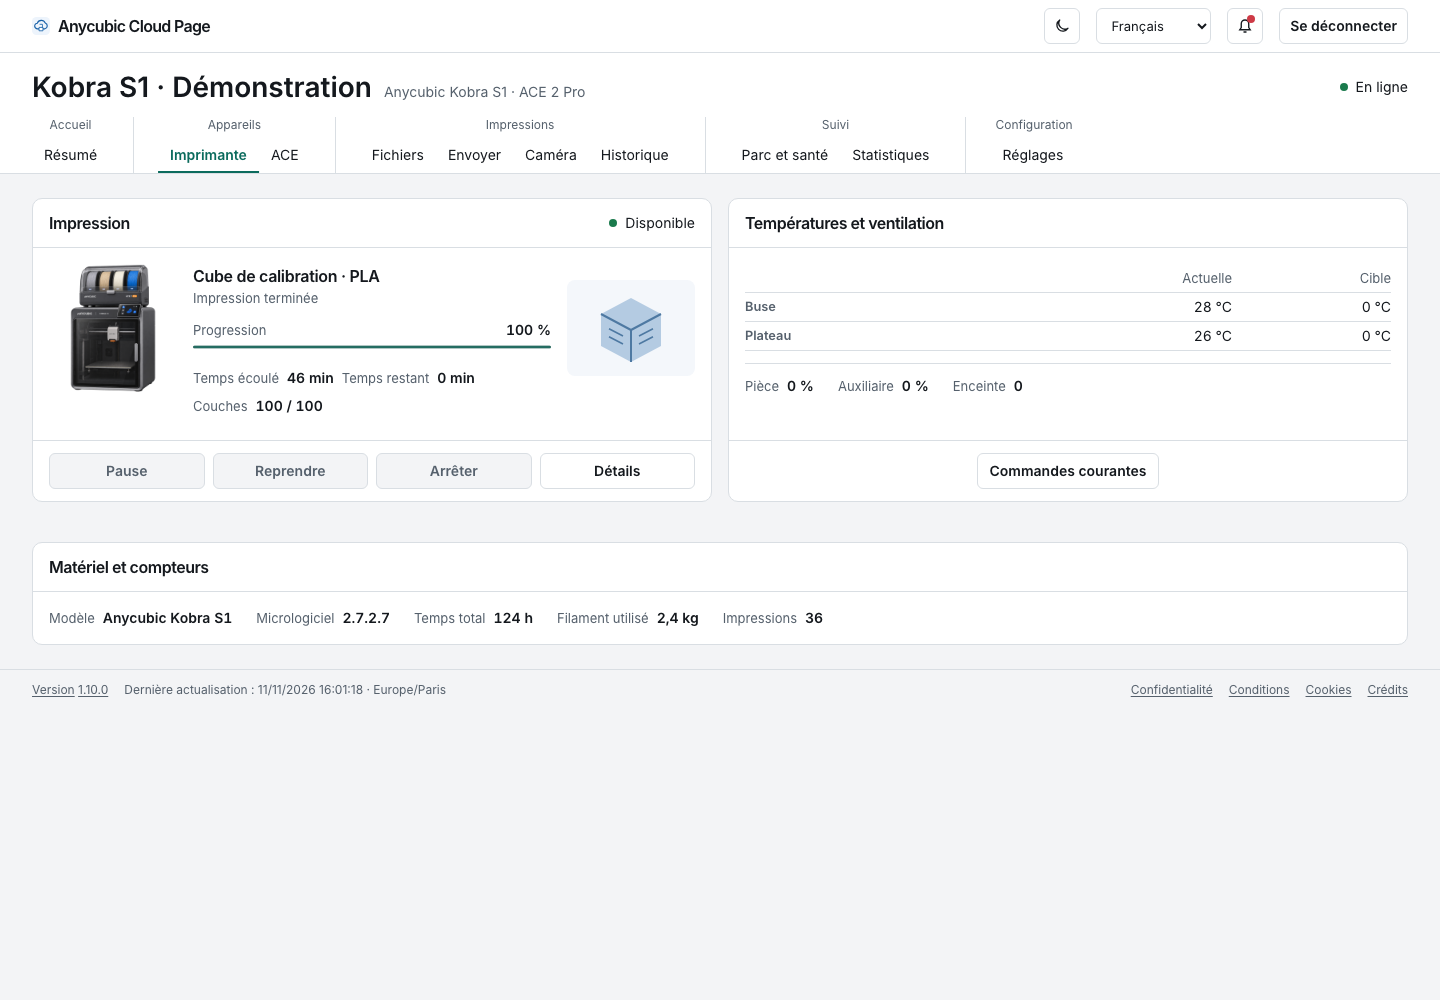
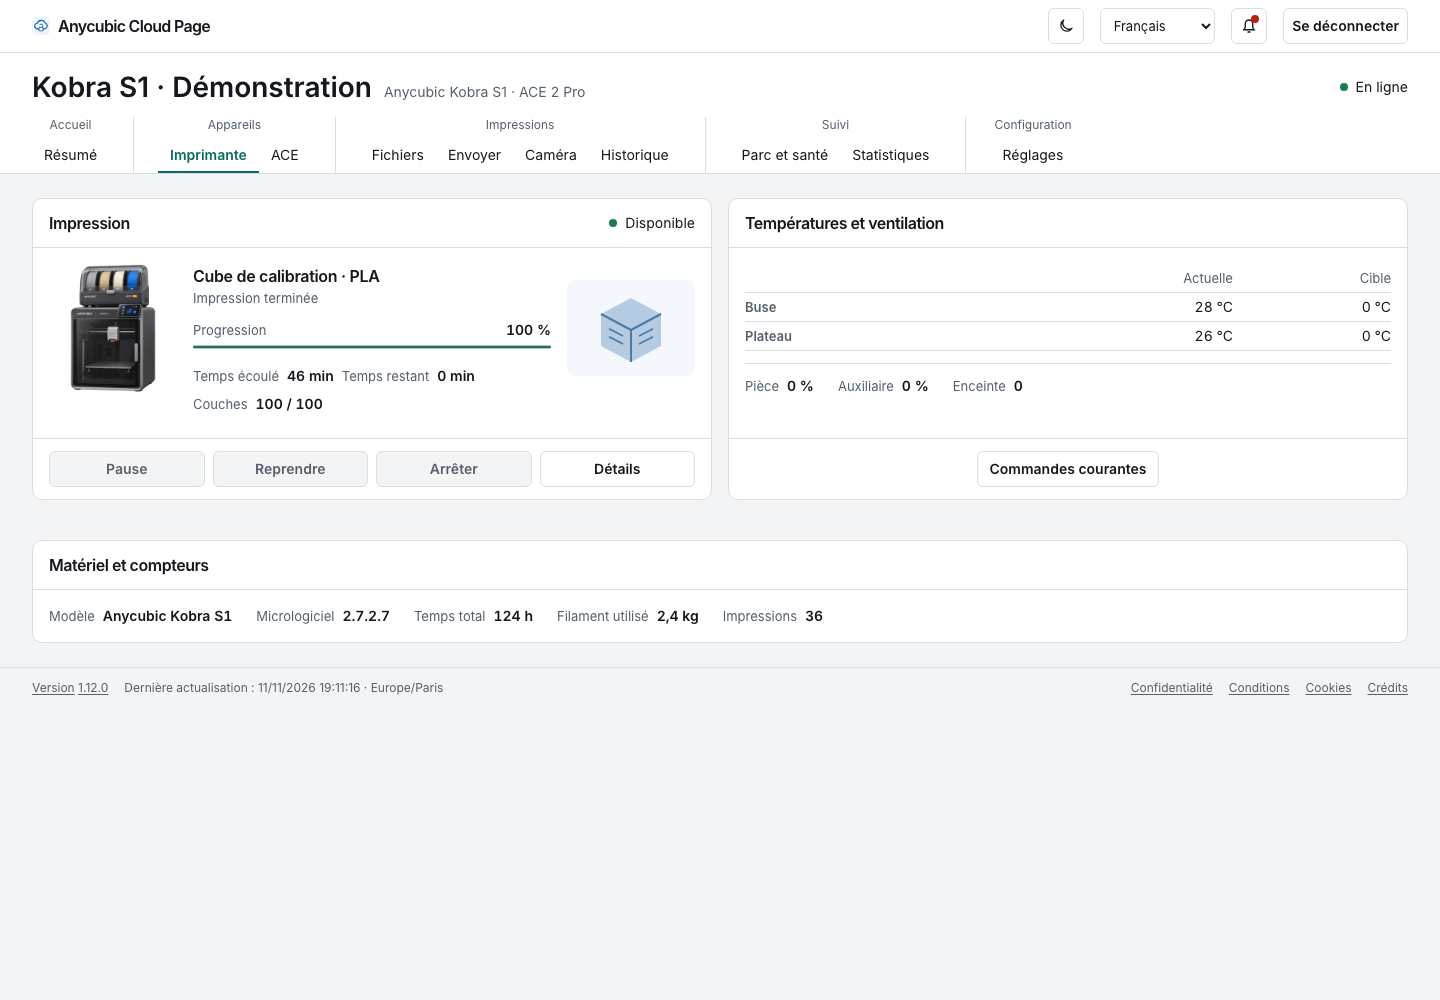
Version 1.12.0 : clôture et maintenance de l’atelier (#317)

diff --git a/app/printer_engine.py b/app/printer_engine.py
@@ -323,6 +323,7 @@ class Engine:
 
     @api.setter
     def api(self, value):
+        """Partage le client remplacé avec les cibles du compte."""
         self.transport.api = value
 
     @property
@@ -332,6 +333,7 @@ class Engine:
 
     @session.setter
     def session(self, value):
+        """Rattache la session HTTP au transport commun."""
         self.transport.session = value
 
     @property
@@ -341,6 +343,7 @@ class Engine:
 
     @account_token.setter
     def account_token(self, value):
+        """Associe le jeton au client qui l’a établi."""
         self.transport.token = value
 
     @property
@@ -350,6 +353,7 @@ class Engine:
 
     @reconnect_required.setter
     def reconnect_required(self, value):
+        """Transmet la demande de reconnexion aux cibles."""
         self.transport.reconnect_required = value
 
     def event(self, action, state):

diff --git a/app/notification_settings.py b/app/notification_settings.py
@@ -60,6 +60,7 @@ def install_discord(app, state_dir, *, fake_sender=None, history_reader=None):
     app[SETTINGS_LOCK] = asyncio.Lock()
 
     async def lifecycle(app):
+        """Arrête la collecte et les livraisons avant de fermer leur session HTTP."""
         async with aiohttp.ClientSession(trust_env=False) as session:
             sender = fake_sender if fake_sender is not None else partial(send_discord, session)
             report_sender = (
@@ -203,6 +204,7 @@ async def discord_settings(request):
     config_path = request.app[REPORT_CONFIG_KEY if report else CONFIG_KEY]
 
     def render(message="", status=200):
+        """Conserve la destination courante dans les réponses et les refus."""
         return discord_page(delivery, message, status, report=report)
 
     if request.method in {"GET", "HEAD"}:

diff --git a/app/notification_delivery.py b/app/notification_delivery.py
@@ -321,7 +321,10 @@ class Delivery:
         return await finish_transaction(commit())
 
     async def observe_cloud(self, scope, page, rows, read_legacy):
-        """Réutilise le journal de compte et borne les compléments destinés aux alarmes ambiguës."""
+        """Établit une référence par compte avant d’admettre les résultats nouveaux.
+
+        Une alarme ambiguë nécessite une preuve terminale issue du journal historique.
+        """
         if not self.config.enabled or not scope or self.last_outcome == "unavailable":
             return
         if self.scope != scope:

diff --git a/app/web_host.py b/app/web_host.py
@@ -699,6 +699,7 @@ async def totp_settings(request):
         config = current_totp(request)
 
         def render_refusal(message, status):
+            """Garde l’écran de sécurité ouvert avec un message expurgé."""
             return totp_settings_page(store, config, message, status)
 
         session, refusal = confirm_web_password(

diff --git a/app/server.py b/app/server.py
@@ -513,6 +513,7 @@ async def command(req):
             sent = False
 
             async def before_send():
+                """Fige la preuve avant l’envoi, car le résultat peut rester incertain."""
                 nonlocal sent
                 if sent:
                     return

diff --git a/docs/UPSTREAM-COMPARISON.md b/docs/UPSTREAM-COMPARISON.md
@@ -86,3 +86,62 @@ Les autres branches non par défaut observées dans le réseau public comprennen
 ## Bilan
 
 La découverte nouvelle la plus utile est le modèle ioBroker pour distinguer mises à jour MQTT et resynchronisation REST configurable. Elle sert de piste de réduction des appels, pas de code à importer. Le réseau de forks Wares contient beaucoup de miroirs de même SHA, un fork d’évolution conséquent (Baeka89) et plusieurs copies contenant caméra Home Assistant; aucun ne prouve un nouvel ordre de coordonnées S1. Aucun patch, source tiers, secret, requête Cloud ni commande machine n’a été utilisé ou ajouté.
+
+## Lectures retenues pour la clôture (#260)
+
+Les révisions sont figées. Les essais matériels cités proviennent des auteurs.
+
+### xNoVoSx/kobra-spoolman
+
+Licence relevée **MIT**. [Révision `671064962a34`](https://github.com/xNoVoSx/kobra-spoolman/tree/671064962a34019d9f2a205996629a90b2b14b39)
+
+Sépare la bobine affectée dans Spoolman, l’état ACE en direct et la dernière affectation connue. Enregistre l’usage par emplacement, puis garde les consommations sans bobine identifiée à part pour correction. La masse est une mesure ou une estimation du pont selon le mode, distincte du pourcentage ACE. Les essais S1 de l’auteur passent par un pont local, dont Rinkhals pour sa configuration. Ils ne valident pas ces champs dans le Cloud.
+
+Retenir les indicateurs de provenance et la correction des affectations pour #93. Garder Spoolman comme intégration facultative à l’étude. Aucune dépendance Moonraker ni reprise de code.
+
+Sources consultées. [`docs/findings.md`](https://github.com/xNoVoSx/kobra-spoolman/blob/671064962a34019d9f2a205996629a90b2b14b39/docs/findings.md), [`docs/api.md`](https://github.com/xNoVoSx/kobra-spoolman/blob/671064962a34019d9f2a205996629a90b2b14b39/docs/api.md), [`docs/spoolman-fields.md`](https://github.com/xNoVoSx/kobra-spoolman/blob/671064962a34019d9f2a205996629a90b2b14b39/docs/spoolman-fields.md), [`bridge/app/acebridge/acemodel.py`](https://github.com/xNoVoSx/kobra-spoolman/blob/671064962a34019d9f2a205996629a90b2b14b39/bridge/app/acebridge/acemodel.py)
+
+### Shawman511/printer-hub
+
+Licence relevée **MIT**. [Révision `9c15ea23a5d7`](https://github.com/Shawman511/printer-hub/tree/9c15ea23a5d7e9c12743e3e4e71961ecd37fce90)
+
+Sépare consultation, exploitation et administration. Le journal conserve les résultats terminé, annulé ou échoué. L’usage du filament peut être corrigé via le journal. Les timelapses de l’application sont des enregistrements de son propre flux et ne prouvent pas l’accès aux vidéos existantes de la S1. Une configuration caméra absente est traitée séparément d’une caméra non disponible.
+
+Retenir la distinction d’état pour #254 et #30. Conserver les confirmations de l’atelier et évaluer l’idée d’un accès de consultation si le besoin se confirme.
+
+Sources consultées. [`docs/users-and-security.md`](https://github.com/Shawman511/printer-hub/blob/9c15ea23a5d7e9c12743e3e4e71961ecd37fce90/docs/users-and-security.md), [`docs/troubleshooting.md`](https://github.com/Shawman511/printer-hub/blob/9c15ea23a5d7e9c12743e3e4e71961ecd37fce90/docs/troubleshooting.md), [`docs/using.md`](https://github.com/Shawman511/printer-hub/blob/9c15ea23a5d7e9c12743e3e4e71961ecd37fce90/docs/using.md), [`drivers/anycubic.js`](https://github.com/Shawman511/printer-hub/blob/9c15ea23a5d7e9c12743e3e4e71961ecd37fce90/drivers/anycubic.js)
+
+### tobecwb/ace2k
+
+Licence relevée **GPL-3.0 (fichier LICENSE)**. [Révision `a0a8398ccd27`](https://github.com/tobecwb/ace2k/tree/a0a8398ccd27d84ef7862d53df6da1cadc436a49)
+
+Firmware alternatif pour ACE 2 Pro. Distingue lecture RFID brute, décodage par l’hôte, position du filament et fin réelle d’un déplacement. L’auteur documente les écarts avec le firmware d’origine et des événements de séchage répétés ou perdus après redémarrage. Ces événements ne sont pas des codes Cloud.
+
+Retenir cette séparation d’états pour #93 et #136. Les mesures et limites du firmware alternatif ne sont pas transposées à la S1 Cloud.
+
+Sources consultées. [`docs/protocol.md`](https://github.com/tobecwb/ace2k/blob/a0a8398ccd27d84ef7862d53df6da1cadc436a49/docs/protocol.md), [`docs/commands.md`](https://github.com/tobecwb/ace2k/blob/a0a8398ccd27d84ef7862d53df6da1cadc436a49/docs/commands.md), [`docs/features.md`](https://github.com/tobecwb/ace2k/blob/a0a8398ccd27d84ef7862d53df6da1cadc436a49/docs/features.md), [`docs/limitations.md`](https://github.com/tobecwb/ace2k/blob/a0a8398ccd27d84ef7862d53df6da1cadc436a49/docs/limitations.md), [`docs/differences-from-stock.md`](https://github.com/tobecwb/ace2k/blob/a0a8398ccd27d84ef7862d53df6da1cadc436a49/docs/differences-from-stock.md)
+
+### Rec0iL/AnycubicGcodeFix
+
+Licence relevée **MIT**. [Révision `d9d8d36e5408`](https://github.com/Rec0iL/AnycubicGcodeFix/tree/d9d8d36e54087c4b961caf7d9a29d24c72dddca1)
+
+L’auteur isole sur sa S1 le cas de G-code brut refusé. Il compare en-tête, blocs de miniature, bloc d’impression et statistiques de fin et conserve le fichier d’origine. Son profil de réécriture embarque des séquences machine et une configuration de trancheur. Le code 10115 seul ne prouve aucun des défauts de structure particuliers.
+
+Retenir une comparaison hors ligne entre fichier connu, fichier refusé et format déclaré pour #142. Ne pas réécrire le G-code, ajouter des mouvements ou déclarer le fichier imprimable sur cette seule base.
+
+Sources consultées. [`README.md`](https://github.com/Rec0iL/AnycubicGcodeFix/blob/d9d8d36e54087c4b961caf7d9a29d24c72dddca1/README.md), [`gcodefix/fixer.py`](https://github.com/Rec0iL/AnycubicGcodeFix/blob/d9d8d36e54087c4b961caf7d9a29d24c72dddca1/gcodefix/fixer.py), [`gcodefix/profile.py`](https://github.com/Rec0iL/AnycubicGcodeFix/blob/d9d8d36e54087c4b961caf7d9a29d24c72dddca1/gcodefix/profile.py), [`gcodefix/thumbnail.py`](https://github.com/Rec0iL/AnycubicGcodeFix/blob/d9d8d36e54087c4b961caf7d9a29d24c72dddca1/gcodefix/thumbnail.py)
+
+### Références hors périmètre de clôture
+
+- `cluzl/kobra-bridge` · hors de la comparaison de clôture.
+- `drpngx/orcaslicer-webconfig` · hors de la comparaison de clôture.
+- `EmreTekir/anycubic-slicer-mcp` · hors de la comparaison de clôture.
+- `tobecwb/ace2k-u1` · hors de la comparaison de clôture.
+- `hwiedermann/ioBroker.anycubic-cloud` · hors de la comparaison de clôture.
+- `marcodiniz/OrcaCubic` · hors de la comparaison de clôture.
+- `MineTech13/anycubic-slicer-next` · hors de la comparaison de clôture.
+- `sh4un-dot-com/Anycubic-SlicerNext-CachyBox` · hors de la comparaison de clôture.
+- `nzrbits/anycubic-uploader` · hors de la comparaison de clôture.
+- `Nino6689/anycubic-cloud-frontend` · hors de la comparaison de clôture.
+- `iu2frl/3d-printer-logs-decrypter` · hors de la comparaison de clôture.
+- `balassy/MMM-Anycubic` · hors de la comparaison de clôture.

diff --git a/docs/ROADMAP.md b/docs/ROADMAP.md
@@ -9,49 +9,23 @@ Mise à jour le 11 novembre 2026. Voir les [versions publiées](https://github.c
 - Le catalogue conserve Par défaut, Aurore et Laboratoire. Voir le [guide des styles](THEMES.md).
 - Les essais sur la Kobra S1 Combo suivent le cadre [#214](https://github.com/mcflykid/anycubic-cloud-page/issues/214), avec vérification de l’état et remise en état après chaque essai. Toute impression complète, mise à jour de firmware ou réinitialisation est exclue.
 
-## Livré dans la 1.10.0
+## Version finale 1.12.0
 
-Prisme, la connexion à deux facteurs, les corrections d’affichage et le découpage du serveur sont détaillés dans le [journal des changements](../CHANGELOG.md).
+Les [changements](../CHANGELOG.md) couvrent les trois styles, les réglages Discord, le catalogue d’erreurs et l’aide contextuelle. Les [essais de clôture](CLOSURE.md) documentent les validations et les preuves à réunir si une investigation reprend.
 
-## En cours
-
-Les critères sont regroupés dans [Prochaine livraison](https://github.com/mcflykid/anycubic-cloud-page/milestone/9).
-
-| Sujet | Suivi |
+| Sujet | Référence |
 | --- | --- |
-| Discord | [#205 Notifications](https://github.com/mcflykid/anycubic-cloud-page/issues/205), [#312 Bilans programmés](https://github.com/mcflykid/anycubic-cloud-page/issues/312) |
-| Suite de l’interface | [#248 Animations](https://github.com/mcflykid/anycubic-cloud-page/issues/248) |
-| Annotations en français | [#223](https://github.com/mcflykid/anycubic-cloud-page/issues/223), à intégrer après les autres changements. |
-
-## Ensuite
-
-[Livraison suivante](https://github.com/mcflykid/anycubic-cloud-page/milestone/13) regroupe l’[audit des styles #257](https://github.com/mcflykid/anycubic-cloud-page/issues/257), l’[étude des seize dépôts #258](https://github.com/mcflykid/anycubic-cloud-page/issues/258), le [catalogue d’erreurs #259](https://github.com/mcflykid/anycubic-cloud-page/issues/259), le [registre des sources #260](https://github.com/mcflykid/anycubic-cloud-page/issues/260), les [README #261](https://github.com/mcflykid/anycubic-cloud-page/issues/261) et les [captures #262](https://github.com/mcflykid/anycubic-cloud-page/issues/262).
-
-## À l’étude
-
-[Milestone des investigations](https://github.com/mcflykid/anycubic-cloud-page/milestone/14).
-
-| Sujet | Prochaine preuve et responsable |
-| --- | --- |
-| [#30 Timelapses](https://github.com/mcflykid/anycubic-cloud-page/issues/30) | Codex vérifie la correspondance liste, miniature et téléchargement avec une vidéo existante. |
-| [#93 Données S1 et ACE](https://github.com/mcflykid/anycubic-cloud-page/issues/93) | Codex compare les unités et états reçus aux valeurs de l’écran, notamment l’RFID et la quantité. |
-| [#103 Lancement G-code 3MF](https://github.com/mcflykid/anycubic-cloud-page/issues/103) | Codex identifie le format et les paramètres requis pour distinguer stockage et lancement. |
-| [#136 Refus et séchage](https://github.com/mcflykid/anycubic-cloud-page/issues/136) | Codex documente les refus constructeurs et vérifie les options de séchage à partir de retours observés. |
-| [#142 Fichier mémoire](https://github.com/mcflykid/anycubic-cloud-page/issues/142) | Codex compare un refus depuis la mémoire avec la lecture du même fichier depuis l’écran de la S1. |
-| [#145 Maillage S1](https://github.com/mcflykid/anycubic-cloud-page/issues/145) | Codex cherche un export de maillage S1 effectivement récupérable et documente son format. |
-| [#181 Aide Fichiers](https://github.com/mcflykid/anycubic-cloud-page/issues/181) | Le propriétaire donne son avis sur la [maquette #203](https://github.com/mcflykid/anycubic-cloud-page/pull/203). |
-| [#194 Hôtes de stockage](https://github.com/mcflykid/anycubic-cloud-page/issues/194) | Codex établit une liste de destinations Anycubic étayée par la documentation ou des observations expurgées. |
+| Discord | [Alertes et bilans](NOTIFICATIONS.md) |
+| Aide et catalogue | [Wiki officiel Kobra S1](ANYCUBIC-WIKI-S1.md) |
+| Lectures amont et crédits | [Registre des sources](SOURCES.md) |
+| Limites et validation réelle | [Dossier de clôture](CLOSURE.md) |
 
 ## Idées non planifiées
 
-Deuxième canal de notification, événements de filament ou de séchage, notifications hors ligne, inventaire et liaison Spoolman, statistiques mensuelles, vue mur plein écran, installation sur téléphone, file d’impressions avec confirmations, export de métriques, sauvegarde et restauration d’`appdata`, page d’état et rapport de compatibilité par modèle.
+Événements de filament ou de séchage, notifications hors ligne, inventaire et liaison Spoolman, statistiques mensuelles, vue mur plein écran, installation sur téléphone, file d’impressions avec confirmations, export de métriques, sauvegarde et restauration d’`appdata`, page d’état et rapport de compatibilité par modèle.
 
 ## Écarté
 
 - Mode réseau local, conformément au choix de conserver l’intégration Cloud.
 - Modification du stockage du mot de passe web, conformément à la décision du propriétaire.
 - Lecture des coordonnées de la tête. La fonction a été retirée après des délais sans réponse exploitable. [#167](https://github.com/mcflykid/anycubic-cloud-page/issues/167)
-
-## En attente du propriétaire
-
-- Souhaites-tu conserver la maquette d’aide dans Fichiers pour la suite ? [#181](https://github.com/mcflykid/anycubic-cloud-page/issues/181) · [#203](https://github.com/mcflykid/anycubic-cloud-page/pull/203)

diff --git a/docs/CLOSURE.md b/docs/CLOSURE.md
@@ -1,0 +1,16 @@
+# Vérifications et limites de la version finale
+
+Les tests automatiques utilisent la démonstration et des comptes fictifs. La qualification sur une installation réelle reste nécessaire pour les cas ci-dessous.
+
+| Suivi | État des connaissances | Preuve à obtenir pour reprendre |
+| --- | --- | --- |
+| #30 · Timelapses | Le wiki S1 décrit l’enregistrement et l’export USB. Le parcours distant complet reste indéterminé. La galerie est désactivée. | Une vidéo existante, sa fiche Cloud et un téléchargement correspondant à la même vidéo. |
+| #93 · États S1 et ACE | Les sources amont séparent identification RFID, pourcentage fabricant et masse. Les remontées disponibles gardent leurs unités et leur provenance. | Comparer des relevés Cloud à l’écran de la même S1 et du même ACE, au même instant. |
+| #103 · G-code 3MF | Le stockage de projets 3MF et le lancement d’un G-code sont deux opérations distinctes. Le lancement de `.gcode.3mf` reste indisponible. | Un exemple confirmé sur S1 avec le type du fichier et la réponse de l’ordre. |
+| #136 · Refus et séchage | Les codes connus ont une fiche locale. Les réglages de séchage restent indépendants du lancement. | Une preuve distincte pour la préparation, le début et la fin du séchage avant un lancement. |
+| #142 · Fichier mémoire | Le code 10115 décrit un refus de lecture. Le fichier refusé signalé à l’origine n’a pas été identifié. | Le même fichier identifié dans la mémoire, son intégrité et deux résultats comparables depuis l’écran et le Cloud. |
+| #145 · Maillage | Les références étudiées documentent des formats locaux ou des mesures. L’export S1 par le Cloud reste indéterminé. | Un export S1 récupéré avec dimensions, unités et provenance documentées. |
+| #194 · Stockage | Les URL restent soumises aux garde-fous existants. Les aperçus réels consultés pour #290 n’ont pas fourni d’image exploitable pour compléter la liste d’hôtes. | Des hôtes expurgés obtenus pendant un aperçu ou un téléchargement autorisé sur chaque source. |
+| #310 · Qualification | Les aperçus existants et les journaux ont été consultés en lecture seule pour la 1.11.0. Les essais réels de caméra, TOTP, pause et annulation restent à réaliser sur une instance de qualification. | Une instance de qualification et des cas désignés. Vérifier aussi les deux destinations Discord après configuration. |
+
+Les détails techniques sont conservés dans la [comparaison amont](UPSTREAM-COMPARISON.md), le [relevé du wiki](ANYCUBIC-WIKI-S1.md) et les [notes de maillage](MESH.md).

diff --git a/docs/SOURCES.md b/docs/SOURCES.md
@@ -1,4 +1,6 @@
-# Sources des effets
+# Registre des sources
+
+## Effets de l’atelier
 
 | Ressource | Origine | Date | Archive d’origine | Utilisation dans l’atelier |
 | --- | --- | --- | --- | --- |
@@ -14,3 +16,7 @@
 | Interrupteur · Uiverse | [njesenberger](https://uiverse.io/njesenberger/rude-stingray-22) | 2026-11-11 | [Galaxy adbd2ad](https://github.com/uiverse-io/galaxy/blob/adbd2adde0a299a3956ea288fb444ec01891ca41/Toggle-switches/njesenberger_rude-stingray-22.html) | Rail en creux et bouton en relief adaptés sous MIT dans `web/css/interactions.css` pour le formulaire ACE. |
 | Téléchargement · Uiverse | [nazar-gavrylyk](https://uiverse.io/nazar-gavrylyk/evil-dragon-24) | 2026-11-11 | [Galaxy adbd2ad](https://github.com/uiverse-io/galaxy/blob/adbd2adde0a299a3956ea288fb444ec01891ca41/Toggle-switches/Na3ar-17_evil-dragon-24.html) | Icône et pulsation adaptées sous MIT pour l’attente réelle de l’export CSV. |
 | Étoiles · Uiverse | [SelfMadeSystem](https://uiverse.io/SelfMadeSystem/selfish-starfish-40) | 2026-11-11 | [Galaxy adbd2ad](https://github.com/uiverse-io/galaxy/blob/adbd2adde0a299a3956ea288fb444ec01891ca41/Radio-buttons/SelfMadeSystem_selfish-starfish-40.html) | Tracé SVG et rebond adaptés sous MIT pour l’évaluation d’une impression. |
+
+## Sources de clôture
+
+Les [révisions et licences amont](UPSTREAM-COMPARISON.md#lectures-retenues-pour-la-clôture-260) et les [guides du wiki](ANYCUBIC-WIKI-S1.md) documentent les études et l’aide de l’atelier. Les [notices](../THIRD_PARTY_NOTICES.md) identifient les composants distribués. Les archives Moxen gardent leur propre licence et restent hors de l’image du conteneur.

diff --git a/README.en.md b/README.en.md
@@ -78,6 +78,12 @@ GPL-3.0-or-later. Independent community project; not an official Anycubic produc
 
 `TZ` defaults to `Europe/Paris` and controls history, chart labels and application log times. `PUID`/`PGID` default to `1000`. Startup prepares `appdata` as root, then starts the server without root privileges. `init: true`, `pids_limit: 100`, resource limits, read-only root and privilege restrictions are enabled. `/etc/localtime` is mounted read-only. The unhealthy-restart label is commented out and requires an external tool.
 
+## Project status
+
+The workshop enters maintenance with ten sections and three styles. In **Settings → Discord notifications**, alert and report webhooks are configured separately. Known error codes have local help in French, English and Spanish.
+
+See the [qualification notes](docs/CLOSURE.md) for Kobra S1 Combo coverage and remaining checks. Printing `.gcode.3mf`, Cloud mesh export and the timelapse gallery remain unavailable. Other printer models require separate validation. [Discord](docs/NOTIFICATIONS.md) · [Installation and Compose variables](docs/INSTALLATION.md)
+
 ## Web sign-in
 
 The French `/login` form uses an eight-hour session cookie: HttpOnly, SameSite=Strict, and Secure when `PUBLIC_ORIGIN` is HTTPS. Sign-out revokes the session. Five failures per five-minute window limit attempts per connection address; users behind a proxy may share this limit. Restarting the application or changing the web password invalidates sessions.

diff --git a/CHANGELOG.md b/CHANGELOG.md
@@ -1,5 +1,19 @@
 # Changements
 
+## 1.12.0 — 2026-11-11
+
+- Ajoute dans **Réglages** les alertes Discord de fin et d’échec ainsi que des bilans à 08 h et 21 h, avec deux webhooks distincts (#205, #312).
+- Partage quinze fiches d’erreur entre les notifications, l’historique, les commandes et Discord. Ajoute l’aide contextuelle en français, anglais et espagnol (#181, #259).
+- Retire Verrière, stabilise la barre latérale Laboratoire et actualise les crédits (#314).
+- Uniformise les derniers styles, vérifie le cache des ressources et exclut les archives de référence de l’image (#309).
+- Actualise les annotations, les guides, les captures, le registre des sources et la feuille de route (#223, #260, #261, #263).
+- Consigne les limites et les preuves restantes pour la validation matérielle et les investigations (#30, #93, #103, #136, #142, #145, #194, #310).
+
+### À vérifier après mise à jour
+
+- Ouvrir **Réglages → Notifications Discord** et configurer deux webhooks distincts si ces canaux sont utilisés. Envoyer un test depuis chaque réglage et vérifier le fuseau du conteneur pour les bilans.
+- Consulter les journaux du conteneur et confirmer le retour de la télémétrie et des notifications après reconnexion.
+
 ## 1.11.0 — 2026-11-11
 
 ### Atelier

diff --git a/README.md b/README.md
@@ -147,6 +147,12 @@ Le déploiement d’origine a permis de vérifier la connexion directe au compte
 
 La présence d’un bouton ne garantit pas sa validation physique : mouvements, chauffe, chargement, séchage, lancement d’impression, écriture IA et installation de firmware nécessitent des essais contrôlés sur chaque matériel. Le renouvellement OAuth est couvert par des tests simulés ; son succès réel à long terme n’est pas établi. Les aperçus de notifications ont été testés avec des données simulées, le journal réel étant vide au contrôle. Voir la [matrice complète](docs/COMPATIBILITY.md).
 
+## État du projet
+
+L’atelier passe en maintenance avec trois styles et dix onglets. Dans **Réglages → Notifications Discord**, les alertes et les bilans se configurent séparément. Le catalogue local explique les codes connus en français, anglais et espagnol.
+
+La validation réelle porte sur la Kobra S1 Combo dans les limites du [dossier de clôture](docs/CLOSURE.md). Le lancement des `.gcode.3mf`, l’export Cloud du maillage et la galerie de timelapses restent indisponibles. Les capacités des autres modèles se vérifient séparément. [Discord](docs/NOTIFICATIONS.md) · [Installation et variables Compose](docs/INSTALLATION.md)
+
 ## Développement
 
 ```sh
